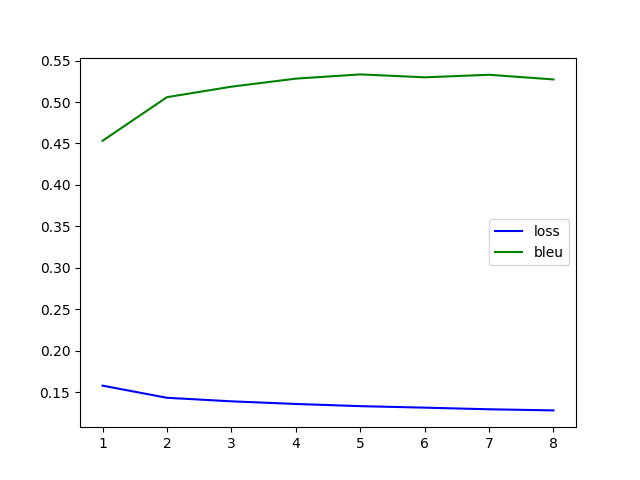
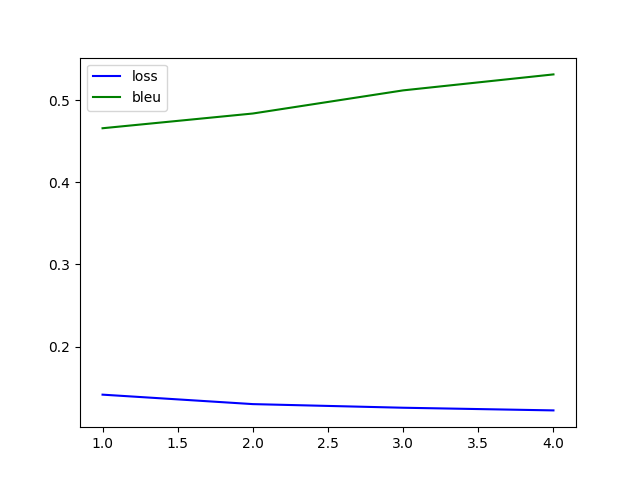
record

diff --git a/hw2/2-1/util.py b/hw2/2-1/util.py
@@ -151,8 +151,6 @@ class Datamanager:
             #record=self.evaluate(encoder,decoder,test_name, write_file, record, n=5)
             self.evaluate(encoder,decoder,test_name, write_file, record, n=5)
             loss_bleu_list.append([loss_total/ batch_index, bleu_average])
-            print(loss_bleu_list)
-            print(plot_file)
             self.plot(loss_bleu_list, plot_file)
     def evaluate(self,encoder, decoder, name, write_file=None, record=0, n=5):
         encoder.eval()

diff --git a/hw2/2-1/main.py b/hw2/2-1/main.py
@@ -4,9 +4,9 @@ import torch
 assert torch and EncoderRNN and AttnDecoderRNN
 
 EPOCHS=50
-BATCH_SIZE= 512
-HIDDEN_LAYER= 128 
-LAYER_N=1
+BATCH_SIZE= 128
+HIDDEN_LAYER= 1024
+LAYER_N=3
 HOP_N=3
 DROPOUT=0.5
 MIN_COUNT = 3
